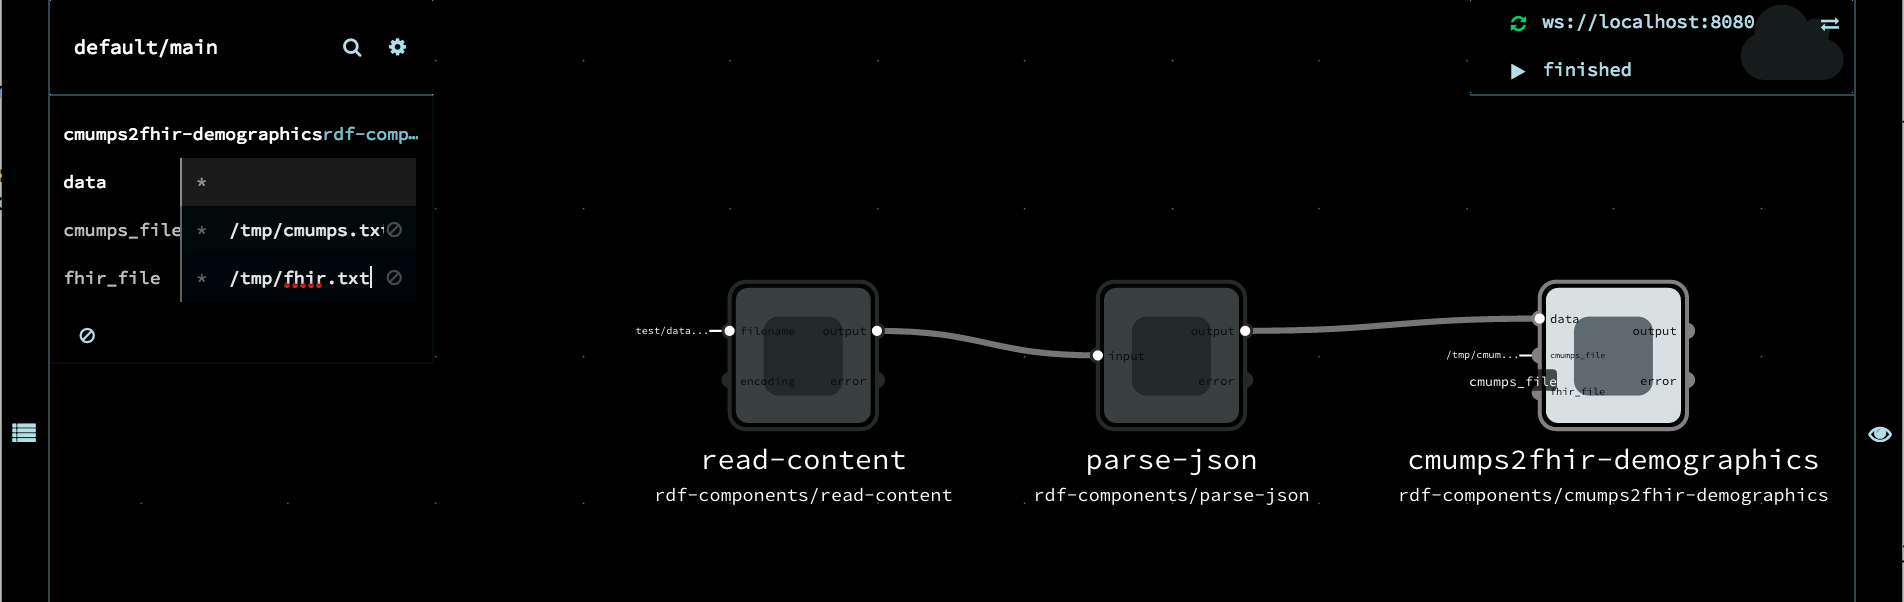
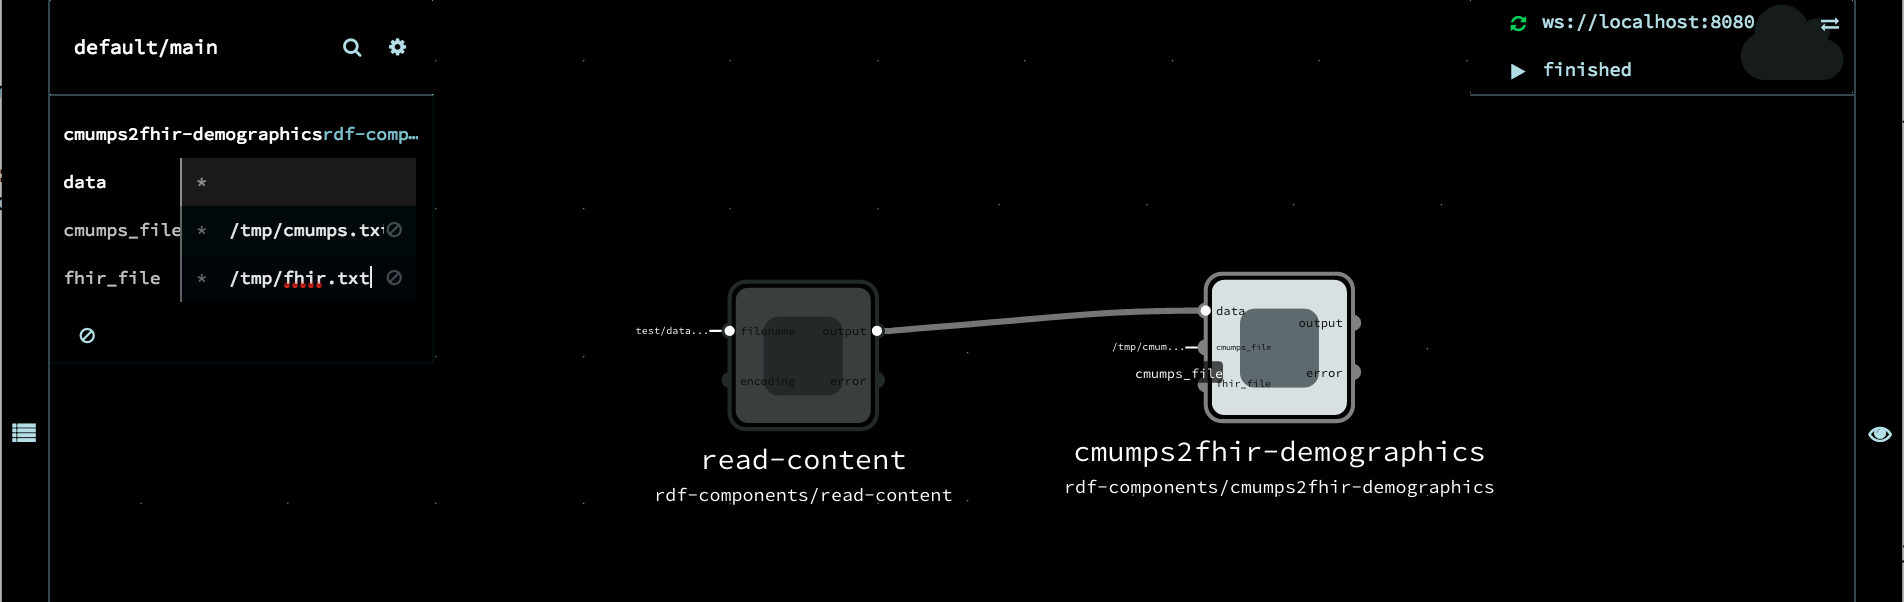
updating getting started to remove parsejson

Changed region(s): [[0.4648, 0.4485, 0.9606, 0.8372]]

diff --git a/Getting-Started.md b/Getting-Started.md
@@ -31,36 +31,30 @@ We'll do each node and edge in turn:
 A configuration view will appear in the upper left hand corner.  Click into the File field and type in this file path: `data/test/cmumps-patient7.jsonld`. This path assumes you are running noflo-nodejs from within the directory of the noflo-rdf-components directory; you may need to modify it if you're starting from a different working directory.
 ![setting read-content component filename input](images/Set-Read-Content-File.png)
 
-3. Add the _rdf-components/Parse-Json_ component by clicking on the "default/main" link in the upper left hand corner of the page and typing the first few letters _Parse-_. (Don't forget the hyphen `-` or you may accidentally pick the strings/parsejson component!)   Click on the full component name to select it and drag it to wherever you like on the page.
-![selecting the parse-json component](images/Add-Parse-Json-Component.png)
-
-4. Link the _Read-Content_ and _Parse-Json_ component by clicking on the output port of _Read-Content_ and dragging the mouse to the input port of _Parse-Json_.
-![connected components](images/Link-Read-Content-Parse-Json.png)
-
-5. Add the _rdf-components/cmumps2fhir-demographics_ component by clicking on the "default/main" link in the upper left hand corner of the page and typing the first few letters _cmumps2fhir-_.  Click on the full component name to select it and drag it to wherever you like on the page.
+3. Add the _rdf-components/cmumps2fhir-demographics_ component by clicking on the "default/main" link in the upper left hand corner of the page and typing the first few letters _cmumps2fhir-_.  Click on the full component name to select it and drag it to wherever you like on the page.
 ![finding cmumps2fhir-demographics component](images/Add-cmumps2Fhir-demographics.png)
 
-6. Configure the cmumps2fhir-demographics component with an output file for the CMUMPS data (cmumps_file: /tmp/cmumps.txt) and the FHIR data translation (fhir_file: /tmp/fhir.txt) so you can examine them later after the graph runs.
+4. Configure the cmumps2fhir-demographics component with an output file for the CMUMPS data (cmumps_file: /tmp/cmumps.txt) and the FHIR data translation (fhir_file: /tmp/fhir.txt) so you can examine them later after the graph runs.
 ![configuring cmumps2fhir-demographics](images/Configure-cmumps2fhir-demographics.png)
 
-7. Draw a link between the _parse-json_ component output port, and the data input port on the _cmumps2fhir-demographics_ component by clicking on the output port and dragging the mouse over the data port.
+5. Draw a link between the _parse-json_ component output port, and the data input port on the _cmumps2fhir-demographics_ component by clicking on the output port and dragging the mouse over the data port.
 
-8. Add the _rdf-components/vni-data-Output_ component by clicking on the "default/main" link in the upper left hand corner of the page and typing the first few letters _vni-_.  Click on the full component name to select it and drag it to wherever you like on the page.
+6. Add the _rdf-components/vni-data-Output_ component by clicking on the "default/main" link in the upper left hand corner of the page and typing the first few letters _vni-_.  Click on the full component name to select it and drag it to wherever you like on the page.
 ![adding data ouput](images/Add-Vni-Data-Output-Component.png)
 
-9. Draw a link between the _cmumps2fhir-demographics_ component output port, and the data input port on the _vni-data-Output_ component by clicking on the output port and dragging the mouse over the input port of the _vni-data-ouput_ component.
+7. Draw a link between the _cmumps2fhir-demographics_ component output port, and the data input port on the _vni-data-Output_ component by clicking on the output port and dragging the mouse over the input port of the _vni-data-ouput_ component.
 ![linking cmumps2fhir-demographics and output](images/Cmumps2Fhir-graph.png)
 
-10. Execute the graph by clicking on the green arrow at the upper right corner of the page.   When it says "Finished", look at the window where you ran the noflo-server.  It should look something like this: 
+8. Execute the graph by clicking on the green arrow at the upper right corner of the page.   When it says "Finished", look at the window where you ran the noflo-server.  It should look something like this: 
 ![expected output](images/Expected-Demographic-Output.png)
 
-11. Take a look at the /tmp/fhir.txt and /tmp/cmumps.txt files you configured and verify the content looks appropriate.  A recent line count looked like this: 
+9. Take a look at the /tmp/fhir.txt and /tmp/cmumps.txt files you configured and verify the content looks appropriate.  A recent line count looked like this: 
 wc /tmp/fhir.txt /tmp/cmumps.txt 
       48     190    1675 /tmp/fhir.txt
       60     283    2945 /tmp/cmumps.txt
      108     473    4620 total
 
-12. Terminate the noflo-server by entering a control-C.
+10. Terminate the noflo-server if desired.
 
 So far: we've done a "load and extract" program. It's convenient that the input data is in jsonld format, nonetheless we still need a component that understnd the semantics of the input and can extract the demographics. In general, as an application developer, you know your data's layout and format.
 LPI simplifies the plumbing and lets you reuse commonly occurring patterns.
